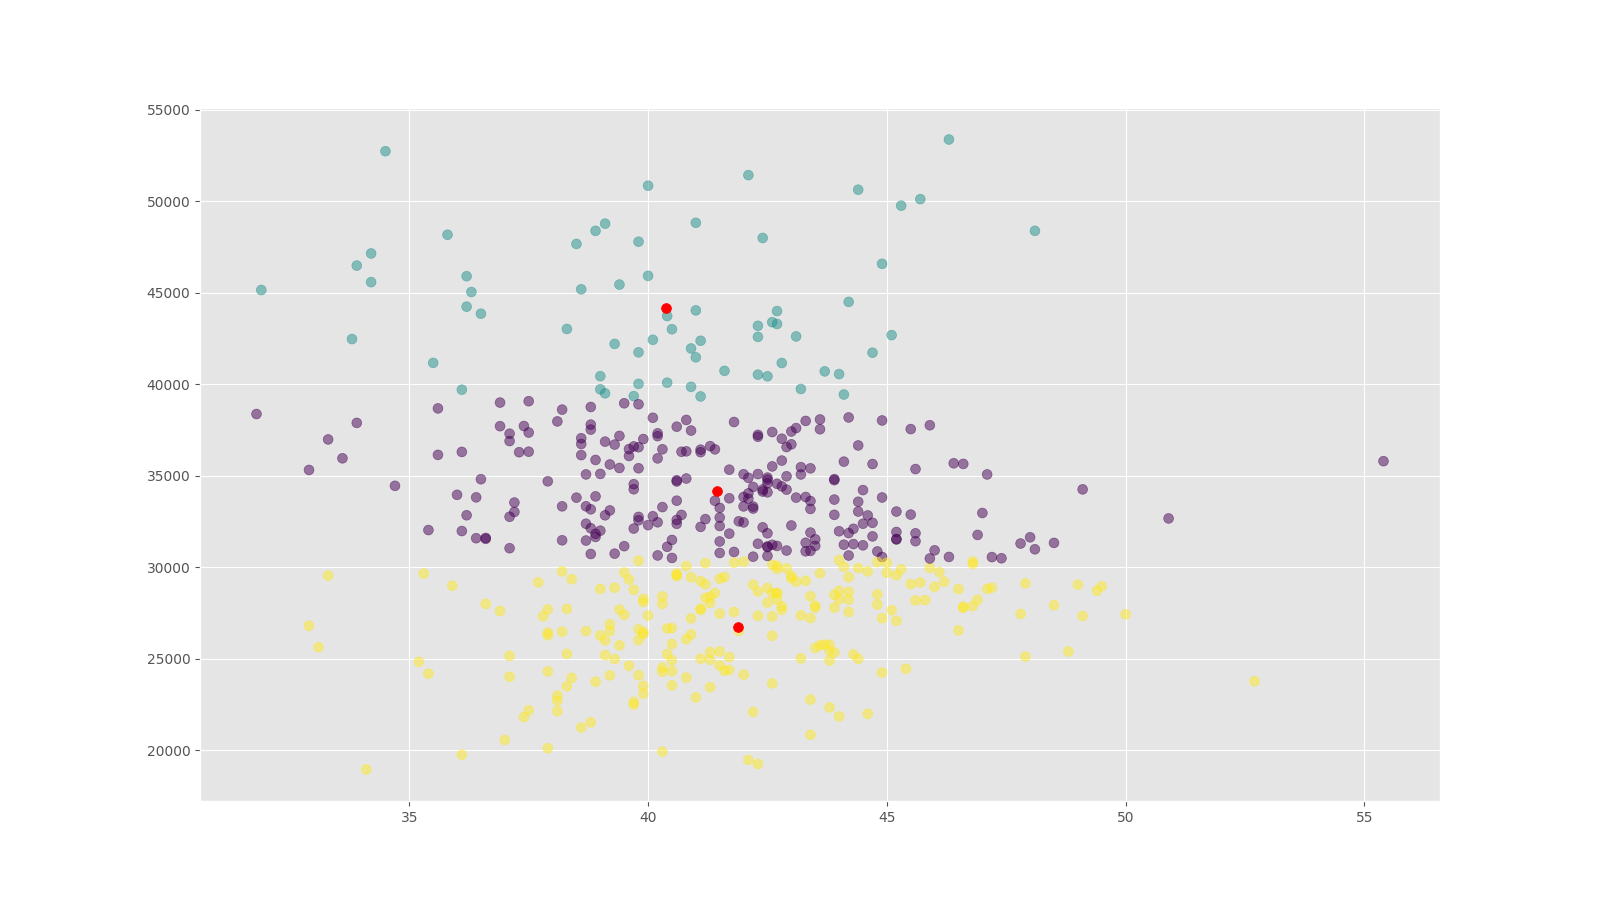
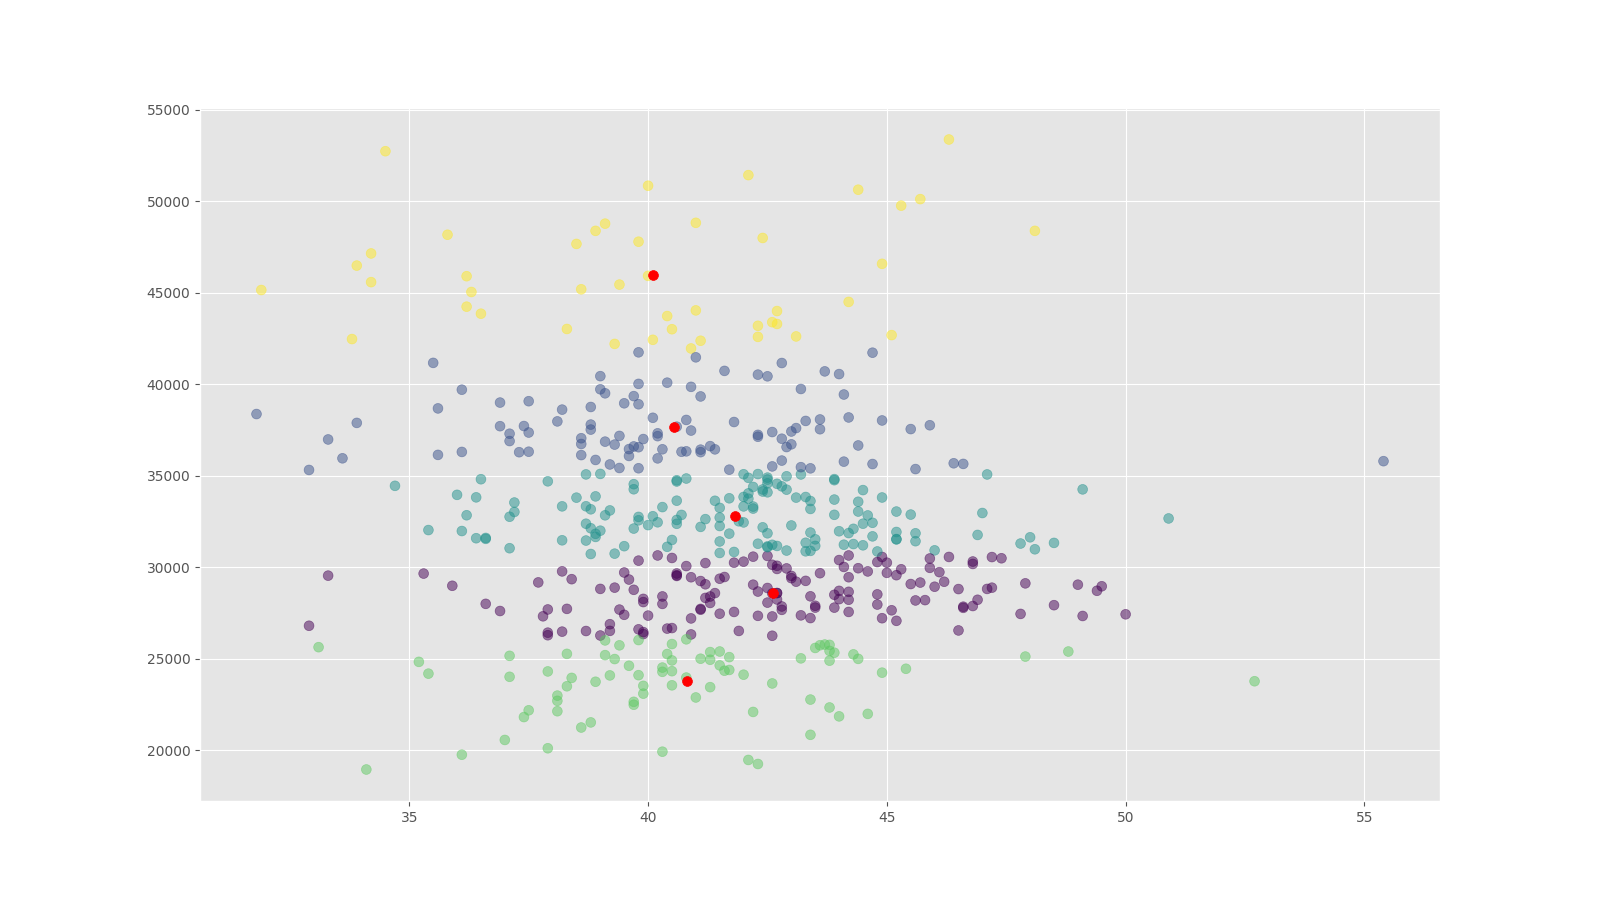
Default values added

diff --git a/model.py b/model.py
@@ -36,7 +36,7 @@ def trainAndGetPredictions(income_val, age_val):
     plt.clf()
 
     # create a clustering model with two dimensions (age and income)
-    CLASS_NUM = 3
+    CLASS_NUM = 5
     kmeans = KMeans(n_clusters=CLASS_NUM, random_state=0).fit(X)
     print(kmeans.labels_)
 
@@ -73,10 +73,8 @@ def trainAndGetPredictions(income_val, age_val):
 
     predicted_class = kmeans.predict(input_array)
 
+    print('printed class')
     print(predicted_class)
-
-    print('printing dict')
-    print(feat_loc)
 
     # return the postal codes of the top 20 points
     top_20_zipcodes = []
@@ -94,11 +92,11 @@ def trainAndGetPredictions(income_val, age_val):
             top_20_zipcodes.append(feat_loc[concat_feat])
             concat_feat = ""
     else:
-        return []
+        # return []
         # return default values worst case
-        # return ['L5S', 'M5H', 'P0Y', 'N6A', 'K7L', 'L4S', 'N2M', 'L4C', 'N6G', 'L6V', 'M2P', 'N5L', 'L2E', 'N3T', 'M9V', 'L5W', 'L2R', 'M5T', 'L2V', 'M3L']
+        return ['L5S', 'M5H', 'P0Y', 'N6A', 'K7L', 'L4S', 'N2M', 'L4C', 'N6G', 'L6V', 'M2P', 'N5L', 'L2E', 'N3T', 'M9V', 'L5W', 'L2R', 'M5T', 'L2V', 'M3L']
 
     print((top_20_zipcodes))
     return top_20_zipcodes
 
-#trainAndGetPredictions(41.9, 32512)
+#print(trainAndGetPredictions(40512, 32))
